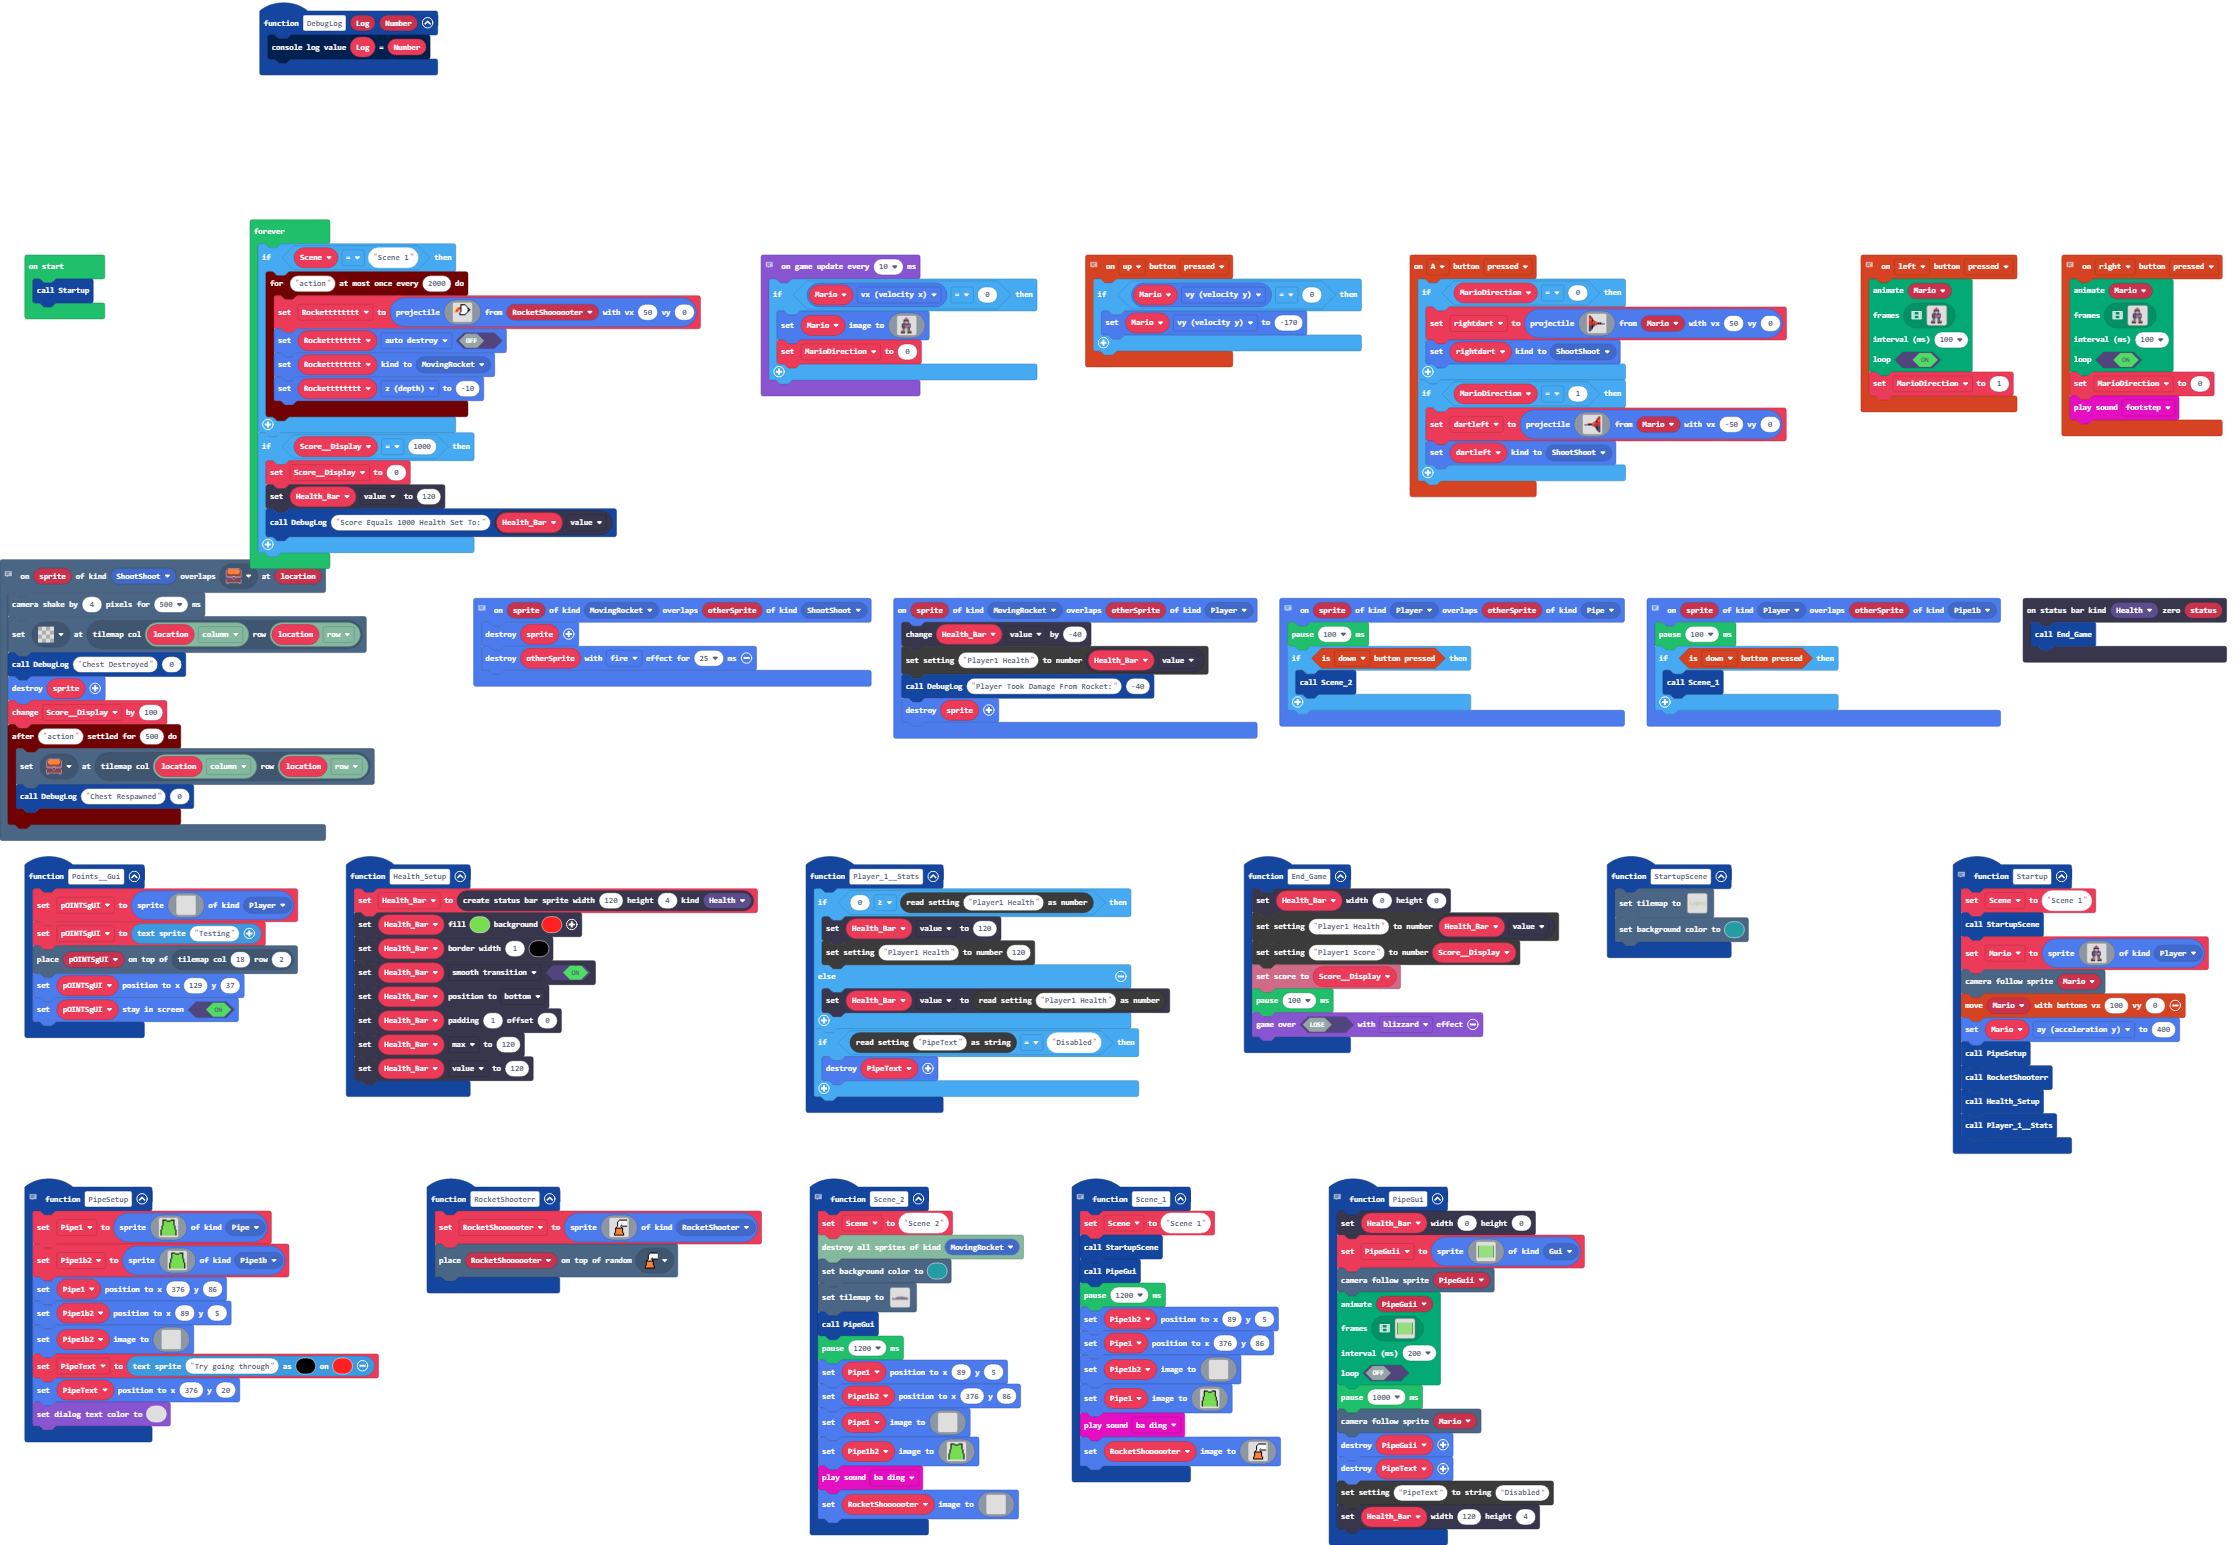
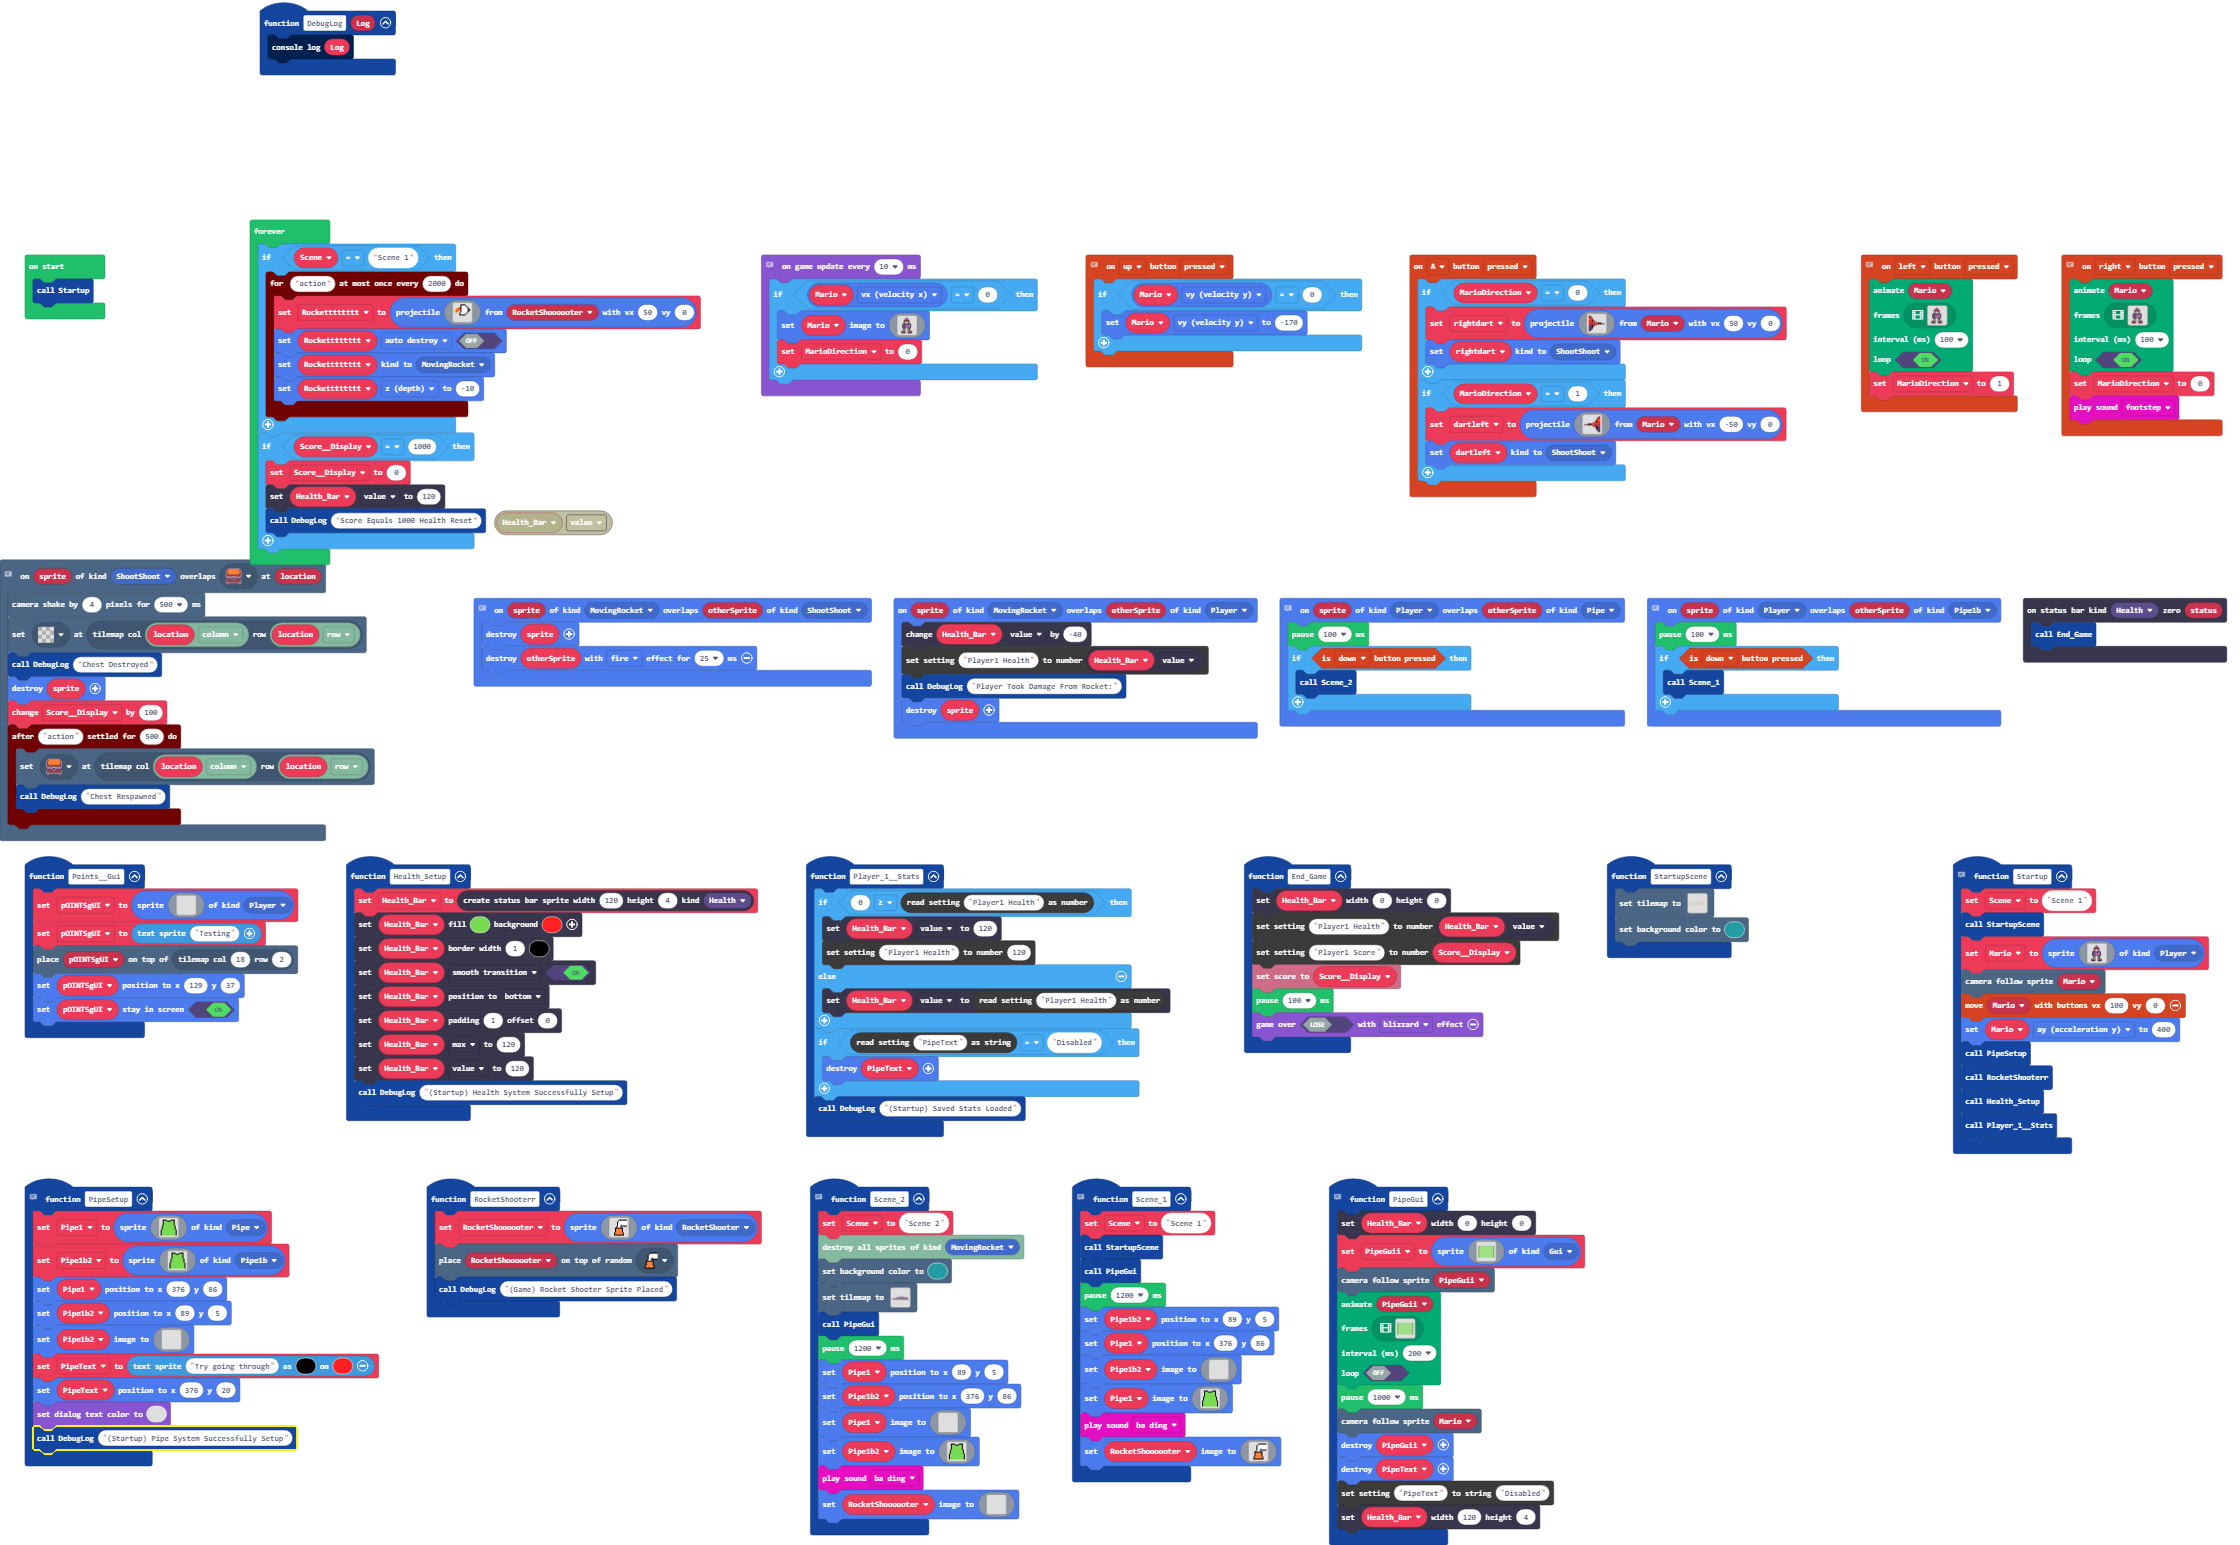
Update main.blocks, main.ts

diff --git a/main.ts b/main.ts
@@ -121,9 +121,10 @@ function PipeSetup () {
     PipeText = textsprite.create("Try going through", 2, 15)
     PipeText.setPosition(376, 20)
     game.setDialogTextColor(0)
+    DebugLog("(Startup) Pipe System Successfully Setup")
 }
-function DebugLog (Log: string, Number2: number) {
-    console.logValue(Log, Number2)
+function DebugLog (Log: string) {
+    console.log(Log)
 }
 controller.A.onEvent(ControllerButtonEvent.Pressed, function () {
     if (MarioDirection == 0) {
@@ -161,6 +162,7 @@ function Health_Setup () {
     Health_Bar.setOffsetPadding(0, 1)
     Health_Bar.max = 120
     Health_Bar.value = 120
+    DebugLog("(Startup) Health System Successfully Setup")
 }
 // Mario Left
 controller.left.onEvent(ControllerButtonEvent.Pressed, function () {
@@ -187,12 +189,12 @@ function StartupScene () {
 scene.onOverlapTile(SpriteKind.ShootShoot, sprites.dungeon.chestClosed, function (sprite, location) {
     scene.cameraShake(4, 500)
     tiles.setTileAt(tiles.getTileLocation(tiles.locationXY(location, tiles.XY.column), tiles.locationXY(location, tiles.XY.row)), assets.tile`transparency16`)
-    DebugLog("Chest Destroyed", 0)
+    DebugLog("Chest Destroyed")
     sprite.destroy()
     Score__Display += 100
     timer.debounce("action", 500, function () {
         tiles.setTileAt(tiles.getTileLocation(tiles.locationXY(location, tiles.XY.column), tiles.locationXY(location, tiles.XY.row)), sprites.dungeon.chestClosed)
-        DebugLog("Chest Respawned", 0)
+        DebugLog("Chest Respawned")
     })
 })
 statusbars.onZero(StatusBarKind.Health, function (status) {
@@ -232,12 +234,13 @@ sprites.onOverlap(SpriteKind.Player, SpriteKind.Pipe1b, function (sprite, otherS
 sprites.onOverlap(SpriteKind.MovingRocket, SpriteKind.Player, function (sprite, otherSprite) {
     Health_Bar.value += -40
     blockSettings.writeNumber("Player1 Health", Health_Bar.value)
-    DebugLog("Player Took Damage From Rocket:", -40)
+    DebugLog("Player Took Damage From Rocket:")
     sprite.destroy()
 })
 function RocketShooterr () {
     RocketShoooooter = sprites.create(assets.tile`HorribleRocketsHOOTER`, SpriteKind.RocketShooter)
     tiles.placeOnRandomTile(RocketShoooooter, assets.tile`HorribleRocketsHOOTER`)
+    DebugLog("(Game) Rocket Shooter Sprite Placed")
 }
 // Scene 1
 function Scene_1 () {
@@ -296,6 +299,7 @@ function Player_1__Stats () {
     if (blockSettings.readString("PipeText") == "Disabled") {
         PipeText.destroy()
     }
+    DebugLog("(Startup) Saved Stats Loaded")
 }
 function Points__Gui () {
     pOINTSgUI = sprites.create(img`
@@ -736,6 +740,6 @@ forever(function () {
     if (Score__Display == 1000) {
         Score__Display = 0
         Health_Bar.value = 120
-        DebugLog("Score Equals 1000 Health Set To:", Health_Bar.value)
+        DebugLog("Score Equals 1000 Health Reset")
     }
 })
